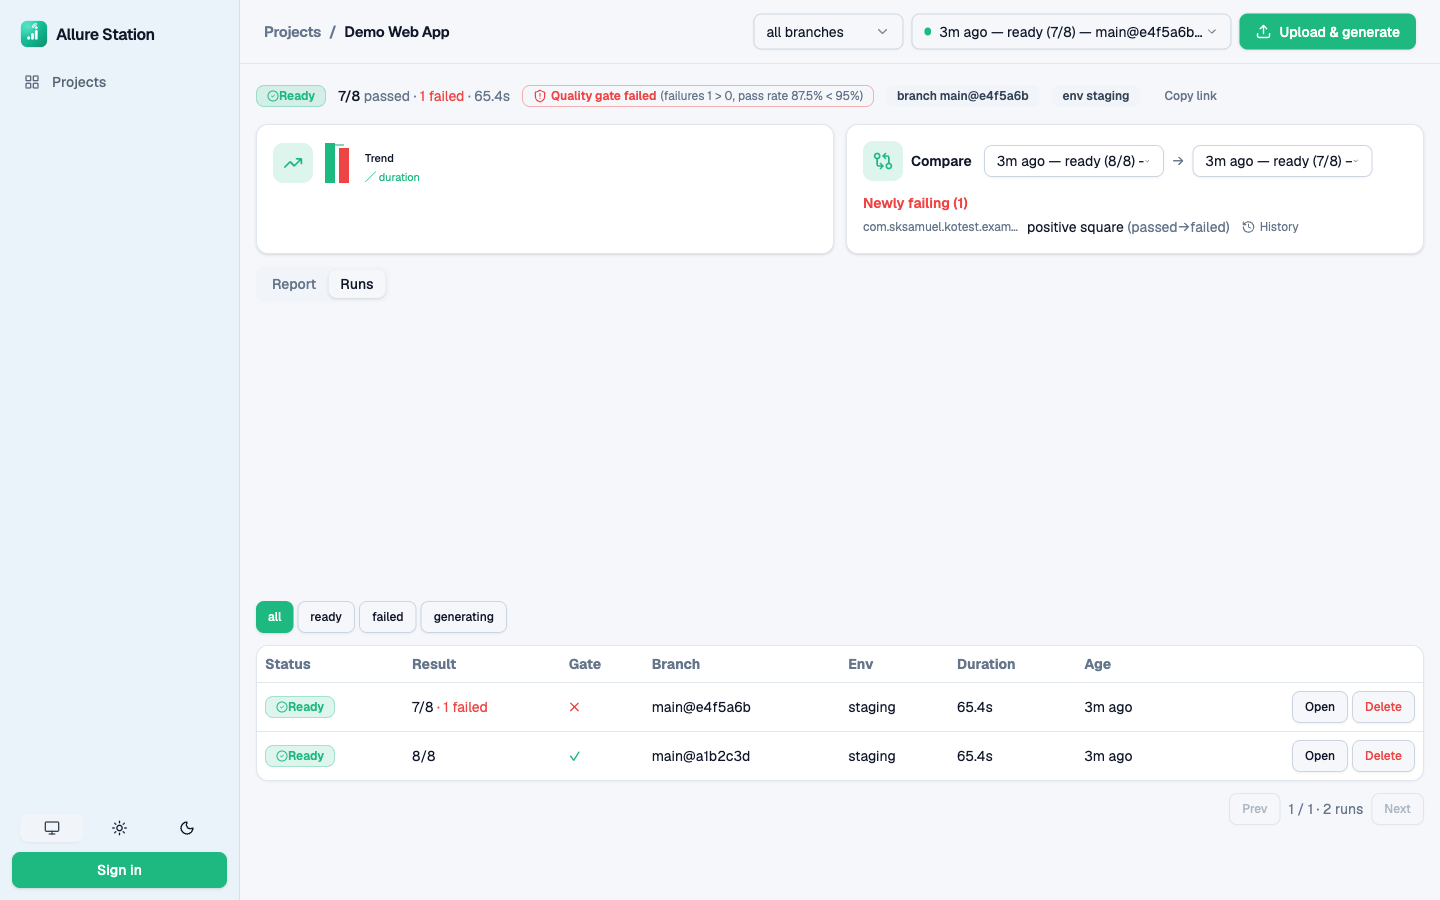
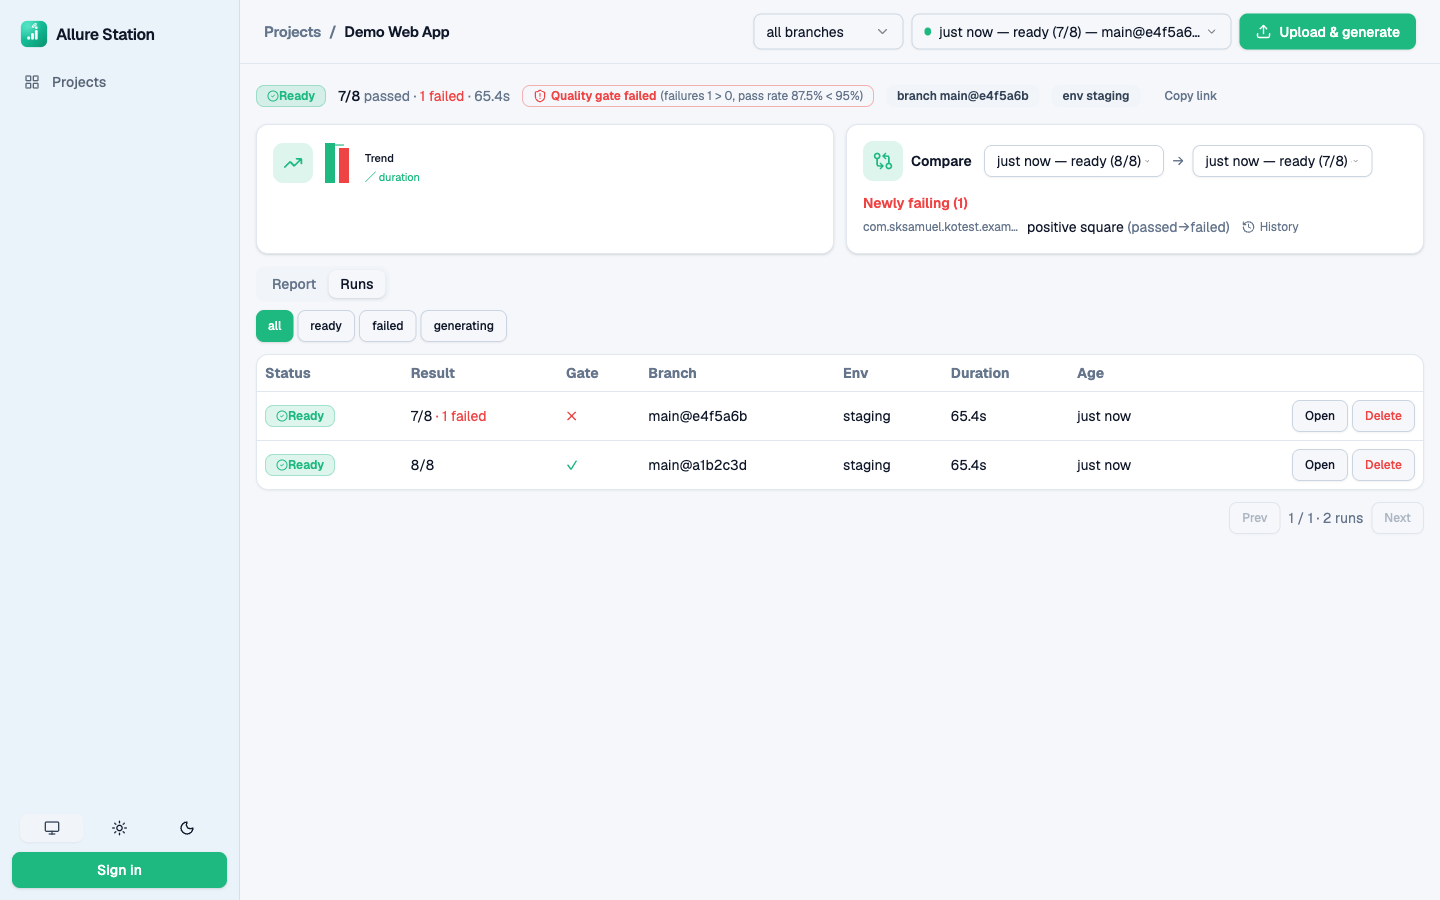
fix(web): hide inactive tab panels despite display utility classes
Radix keeps the inactive TabsContent mounted with the hidden attribute,
but a 'flex' utility passed via className overrides [hidden]'s
display:none, leaving an empty flex-1 panel that pushed the runs table
halfway down the page. data-[state=inactive]:hidden in the shared
component outranks any display utility. Runs-tab screenshot recaptured.

diff --git a/packages/web/src/components/ui/tabs.tsx b/packages/web/src/components/ui/tabs.tsx
@@ -42,7 +42,9 @@ const TabsContent = React.forwardRef<
   <TabsPrimitive.Content
     ref={ref}
     className={cn(
-      "mt-2 ring-offset-background focus-visible:outline-none focus-visible:ring-2 focus-visible:ring-ring focus-visible:ring-offset-2",
+      // data-[state=inactive]:hidden outranks display utilities (e.g. `flex`) passed via className,
+      // which would otherwise override the `hidden` attribute Radix puts on the inactive panel.
+      "mt-2 ring-offset-background focus-visible:outline-none focus-visible:ring-2 focus-visible:ring-ring focus-visible:ring-offset-2 data-[state=inactive]:hidden",
       className
     )}
     {...props}